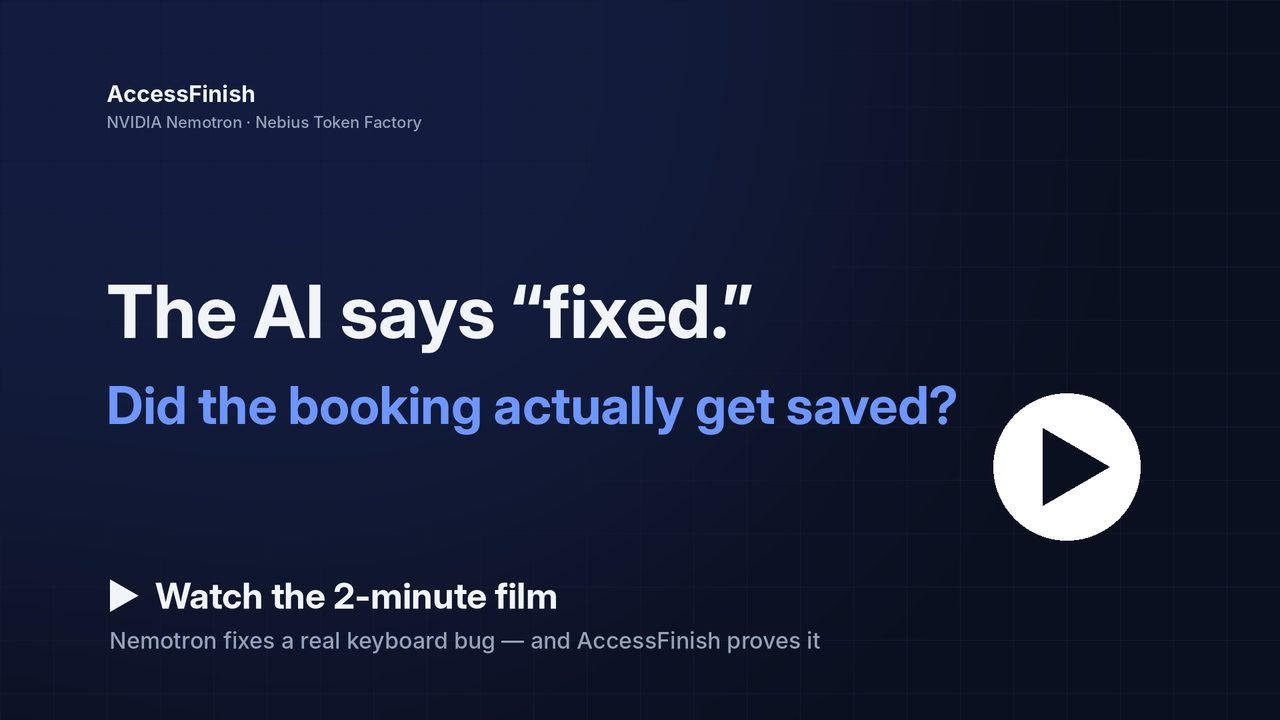
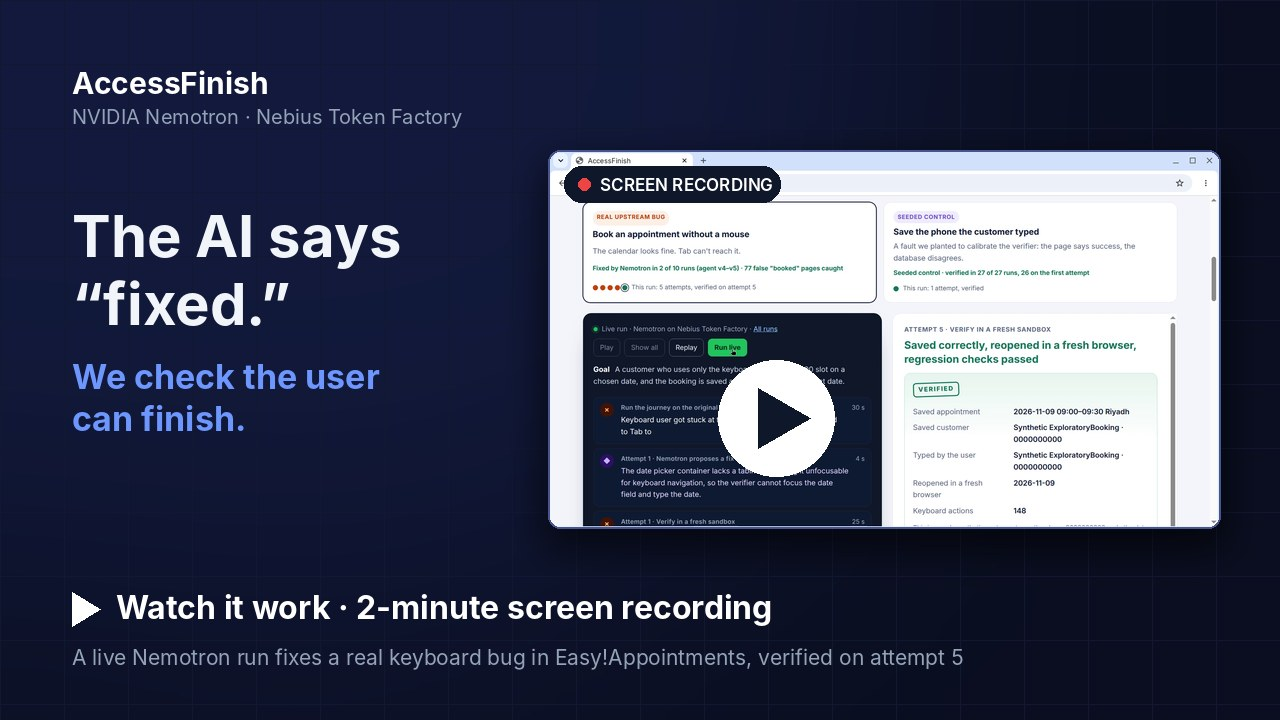
Point every film link at the screen recording (youtu.be/XztxzjYYlO0)
README, the page, the evidence page (web/ and docs/) and the Devpost story
link to the screen-recorded film. The poster now shows a real frame of the
live run, and the README describes how both films were made.

Changed region(s): [[0.0625, 0.1833, 0.9688, 0.7639], [0.0312, 0.7944, 0.75, 0.9472], [0.0625, 0.0917, 0.375, 0.1833]]

diff --git a/docs/index.html b/docs/index.html
@@ -9,7 +9,7 @@
 <a class="skip" href="#agent">Skip to the agent</a>
 <header class="top">
   <a class="brand" href="./"><span class="mark" aria-hidden="true">af</span>AccessFinish</a>
-  <nav aria-label="Main"><a class="nav-film" href="https://youtu.be/frrtIo-7kB8"><span aria-hidden="true">▶ </span>Film</a><a href="#how">How it works</a><a href="evidence.html">Evidence</a><a href="https://github.com/SultanAlfaifi/accessfinish">GitHub</a></nav>
+  <nav aria-label="Main"><a class="nav-film" href="https://youtu.be/XztxzjYYlO0"><span aria-hidden="true">▶ </span>Film</a><a href="#how">How it works</a><a href="evidence.html">Evidence</a><a href="https://github.com/SultanAlfaifi/accessfinish">GitHub</a></nav>
 </header>
 <main>
   <section class="hero with-film">
@@ -17,11 +17,11 @@
     <p class="eyebrow">NVIDIA Nemotron · Nebius Token Factory</p>
     <h1>The AI says “fixed.”<br><span>We check the user can finish.</span></h1>
     <p class="lede">AccessFinish is a repair agent that doesn't trust a green page. It drives the real journey with a keyboard, reads what was actually saved, reopens it in a fresh browser, and keeps fixing until the outcome is right.</p>
-    <p class="actions"><a class="cta" href="#agent">Replay the agent's runs</a><a class="cta secondary" href="https://youtu.be/frrtIo-7kB8"><span aria-hidden="true">▶ </span>Watch the 2-minute film</a></p>
+    <p class="actions"><a class="cta" href="#agent">Replay the agent's runs</a><a class="cta secondary" href="https://youtu.be/XztxzjYYlO0"><span aria-hidden="true">▶ </span>Watch the 2-minute film</a></p>
     </div>
-    <a class="film" href="https://youtu.be/frrtIo-7kB8">
+    <a class="film" href="https://youtu.be/XztxzjYYlO0">
       <img src="media/film-poster.jpg" width="1280" height="720" alt="">
-      <span class="film-label"><b>Film · 2 minutes</b><span>On YouTube · narrated, with captions · Nemotron fixes a real keyboard bug and AccessFinish proves it</span></span>
+      <span class="film-label"><b>Screen recording · 2 minutes</b><span>On YouTube · narrated, with captions · a live Nemotron run fixes a real keyboard bug, and AccessFinish proves it</span></span>
     </a>
   </section>
 

diff --git a/web/index.html b/web/index.html
@@ -9,7 +9,7 @@
 <a class="skip" href="#agent">Skip to the agent</a>
 <header class="top">
   <a class="brand" href="./"><span class="mark" aria-hidden="true">af</span>AccessFinish</a>
-  <nav aria-label="Main"><a class="nav-film" href="https://youtu.be/frrtIo-7kB8"><span aria-hidden="true">▶ </span>Film</a><a href="#how">How it works</a><a href="evidence.html">Evidence</a><a href="https://github.com/SultanAlfaifi/accessfinish">GitHub</a></nav>
+  <nav aria-label="Main"><a class="nav-film" href="https://youtu.be/XztxzjYYlO0"><span aria-hidden="true">▶ </span>Film</a><a href="#how">How it works</a><a href="evidence.html">Evidence</a><a href="https://github.com/SultanAlfaifi/accessfinish">GitHub</a></nav>
 </header>
 <main>
   <section class="hero with-film">
@@ -17,11 +17,11 @@
     <p class="eyebrow">NVIDIA Nemotron · Nebius Token Factory</p>
     <h1>The AI says “fixed.”<br><span>We check the user can finish.</span></h1>
     <p class="lede">AccessFinish is a repair agent that doesn't trust a green page. It drives the real journey with a keyboard, reads what was actually saved, reopens it in a fresh browser, and keeps fixing until the outcome is right.</p>
-    <p class="actions"><a class="cta" href="#agent">Replay the agent's runs</a><a class="cta secondary" href="https://youtu.be/frrtIo-7kB8"><span aria-hidden="true">▶ </span>Watch the 2-minute film</a></p>
+    <p class="actions"><a class="cta" href="#agent">Replay the agent's runs</a><a class="cta secondary" href="https://youtu.be/XztxzjYYlO0"><span aria-hidden="true">▶ </span>Watch the 2-minute film</a></p>
     </div>
-    <a class="film" href="https://youtu.be/frrtIo-7kB8">
+    <a class="film" href="https://youtu.be/XztxzjYYlO0">
       <img src="media/film-poster.jpg" width="1280" height="720" alt="">
-      <span class="film-label"><b>Film · 2 minutes</b><span>On YouTube · narrated, with captions · Nemotron fixes a real keyboard bug and AccessFinish proves it</span></span>
+      <span class="film-label"><b>Screen recording · 2 minutes</b><span>On YouTube · narrated, with captions · a live Nemotron run fixes a real keyboard bug, and AccessFinish proves it</span></span>
     </a>
   </section>
 

diff --git a/docs/evidence.html b/docs/evidence.html
@@ -9,7 +9,7 @@
 <a class="skip" href="#runs-heading">Skip to the runs</a>
 <header class="top">
   <a class="brand" href="./"><span class="mark" aria-hidden="true">af</span>AccessFinish</a>
-  <nav aria-label="Main"><a class="nav-film" href="https://youtu.be/frrtIo-7kB8"><span aria-hidden="true">▶ </span>Film</a><a href="./#how">How it works</a><a href="evidence.html" aria-current="page">Evidence</a><a href="https://github.com/SultanAlfaifi/accessfinish">GitHub</a></nav>
+  <nav aria-label="Main"><a class="nav-film" href="https://youtu.be/XztxzjYYlO0"><span aria-hidden="true">▶ </span>Film</a><a href="./#how">How it works</a><a href="evidence.html" aria-current="page">Evidence</a><a href="https://github.com/SultanAlfaifi/accessfinish">GitHub</a></nav>
 </header>
 <main>
   <section class="hero compact">

diff --git a/web/evidence.html b/web/evidence.html
@@ -9,7 +9,7 @@
 <a class="skip" href="#runs-heading">Skip to the runs</a>
 <header class="top">
   <a class="brand" href="./"><span class="mark" aria-hidden="true">af</span>AccessFinish</a>
-  <nav aria-label="Main"><a class="nav-film" href="https://youtu.be/frrtIo-7kB8"><span aria-hidden="true">▶ </span>Film</a><a href="./#how">How it works</a><a href="evidence.html" aria-current="page">Evidence</a><a href="https://github.com/SultanAlfaifi/accessfinish">GitHub</a></nav>
+  <nav aria-label="Main"><a class="nav-film" href="https://youtu.be/XztxzjYYlO0"><span aria-hidden="true">▶ </span>Film</a><a href="./#how">How it works</a><a href="evidence.html" aria-current="page">Evidence</a><a href="https://github.com/SultanAlfaifi/accessfinish">GitHub</a></nav>
 </header>
 <main>
   <section class="hero compact">

diff --git a/README.md b/README.md
@@ -6,7 +6,7 @@
 
 A repair agent on **NVIDIA Nemotron 3 Super** (served by **Nebius Token Factory**) that accepts a fix only when a keyboard-only browser session (real keystrokes in a real browser) can finish the task, the database holds what was typed, and a fresh browser shows it back.
 
-[![Watch the film](https://img.shields.io/badge/%E2%96%B6%20Watch-the%202--minute%20film-ff0000?style=for-the-badge)](https://youtu.be/frrtIo-7kB8)
+[![Watch the film](https://img.shields.io/badge/%E2%96%B6%20Watch-the%202--minute%20film-ff0000?style=for-the-badge)](https://youtu.be/XztxzjYYlO0)
 [![Live demo](https://img.shields.io/badge/Live-replay%20page-2f5bea?style=for-the-badge)](https://sultalfaifi.com/accessfinish/)
 [![Evidence](https://img.shields.io/badge/All%2054%20runs-raw%20evidence-13795b?style=for-the-badge)](https://sultalfaifi.com/accessfinish/evidence.html)
 
@@ -15,8 +15,8 @@ A repair agent on **NVIDIA Nemotron 3 Super** (served by **Nebius Token Factory*
 ![Track](https://img.shields.io/badge/track-Coding%20%26%20Agentic%20Engineering-141d3b)
 [![License: MIT](https://img.shields.io/badge/license-MIT-blue)](LICENSE)
 
-<a href="https://youtu.be/frrtIo-7kB8"><img src="web/media/film-poster.jpg" width="820" alt="Watch the 2-minute film on YouTube"></a>
-<br><sub>No YouTube? <a href="media/accessfinish-agent-demo.mp4">Watch the MP4 in the repository (20 MB)</a></sub>
+<a href="https://youtu.be/XztxzjYYlO0"><img src="web/media/film-poster.jpg" width="820" alt="Watch the 2-minute screen recording on YouTube"></a>
+<br><sub>A screen recording of the project working: a live Nemotron run, verified, then the patched app booked with the keyboard. No YouTube? <a href="media/accessfinish-live-demo.mp4">Watch the MP4 in the repository (9 MB)</a></sub>
 
 | **0 / 77** | **2 / 10** | **27 / 27** | **$6.38** |
 | :---: | :---: | :---: | :---: |
@@ -276,15 +276,15 @@ lib/fixture.cjs            the verifier: isolated containers, keyboard booking, 
 lib/                       cases, edit validation, model client, Docker helpers, run records
 integration/portable/      sandbox images, browser workers, outcome evaluator, pinned Easy!Appointments (GPL-3.0)
 scripts/agent.cjs          run the agent from the command line (--case, --publish, --recorded-model)
-scripts/                   evidence index and checks, CI replays, the film pipeline (narrate, render, transcribe)
+scripts/                   evidence index and checks, CI replays, the film pipelines (scripts/film/ records the screen)
 web/                       the replay page and the evidence page (docs/ is the GitHub Pages copy)
 evidence/                  every live run and earlier trial, raw; start at evidence/README.md
-media/                     the demo film, its narration and shots, README images
+media/                     the demo films (screen recording and generated), their narration, takes and shots, README images
 examples/                  the PR comment AccessFinish would post as a merge gate (rendered from a recorded run)
 submission/                Devpost story, judge guide, testing instructions, feedback on Nemotron and Token Factory
 test/                      60 tests
 server.cjs                 the local page with Run live (npm start)
-.github/workflows/         clean-execution (CI replay), agent-run (live Nemotron runs), narration (film voice)
+.github/workflows/         clean-execution (CI replay), agent-run (live Nemotron runs), film (screen recording), narration (film voice)
 third_party/               the Easy!Appointments GPL-3.0 licence
 ```
 
@@ -296,7 +296,7 @@ third_party/               the Easy!Appointments GPL-3.0 licence
 - **Edits:** each edit's `old` text must match the file exactly once. Since v3, an anchor that matches exactly once when whitespace is ignored is re-indented and applied, like `git apply --ignore-whitespace`. Ambiguous anchors are never guessed, and every adjustment is recorded next to the model's own text.
 - **Comparable runs:** every trace since v2 (40 of 54) records the agent version, commit, fixture fingerprint, temperature and booking date. One booking date (a Monday in a later month, so the date picker must change month) is pinned per CI job.
 - **Sandbox:** separate containers for the app, database, compiler, browser and verifier. No network, no model key, read-only roots, all capabilities dropped, CPU/memory/PID limits. Model output never becomes a shell command.
-- **The film** is generated, not screen-recorded: real page close-ups ([`capture-film-assets.cjs`](scripts/capture-film-assets.cjs)), a Qwen3-TTS narration checked by Whisper ([`narrate.py`](scripts/narrate.py), [`transcribe-narration.py`](scripts/transcribe-narration.py)) and [`render-agent-film.py`](scripts/render-agent-film.py).
+- **The films:** the [screen recording](media/live-film/README.md) is a visible Chromium on a GitHub Actions runner's desktop, captured with ffmpeg by [`shoot.cjs`](scripts/film/shoot.cjs) while a live run ran, and cut to a Qwen3-TTS narration by [`render-live-film.py`](scripts/film/render-live-film.py); speed-ups are labelled. The earlier film is generated from real page close-ups ([`capture-film-assets.cjs`](scripts/capture-film-assets.cjs)), a Qwen3-TTS narration checked by Whisper ([`narrate.py`](scripts/narrate.py), [`transcribe-narration.py`](scripts/transcribe-narration.py)) and [`render-agent-film.py`](scripts/render-agent-film.py).
 </details>
 
 ## Limits

diff --git a/submission/video-script.md b/submission/video-script.md
@@ -2,7 +2,7 @@
 
 ## Screen recording (2 min 9 s)
 
-`media/accessfinish-live-demo.mp4` (1920×1080, narrated, captions burned in) shows the project working on the machine it was built for: a Linux desktop with Docker, recorded on a GitHub Actions runner. One scenario from start to end:
+[On YouTube](https://youtu.be/XztxzjYYlO0) · `media/accessfinish-live-demo.mp4` (1920×1080, narrated, captions burned in) shows the project working on the machine it was built for: a Linux desktop with Docker, recorded on a GitHub Actions runner. One scenario from start to end:
 
 1. A keyboard-only customer tries to book in the original Easy!Appointments: Tab never reaches the calendar.
 2. `npm start`, then **Run live** on the page: Nemotron 3 Super on Nebius Token Factory, verified in the sandbox (`docker ps` shows its offline containers). Attempt 2 reaches a "booked" page that saved 1 Nov instead of 9 Nov, and is rejected. Attempt 4 saves the right date, but the reopened booking shows today, so it is rejected too. Attempt 5 is verified, 6 min 8 s after Run live, at about $0.09.

diff --git a/submission/project-description.md b/submission/project-description.md
@@ -6,7 +6,7 @@ The text submitted to Devpost (Nebius × NVIDIA Global AI Hackathon, track: Codi
 
 *Access:* can a keyboard user get through? *Finish:* is what they typed actually saved?
 
-▶ [Watch the 2-minute film](https://youtu.be/frrtIo-7kB8) · [Replay the agent's runs](https://sultalfaifi.com/accessfinish/) · [Every run with its raw evidence](https://sultalfaifi.com/accessfinish/evidence.html) · [Source on GitHub](https://github.com/SultanAlfaifi/accessfinish)
+▶ [Watch the 2-minute film](https://youtu.be/XztxzjYYlO0) · [Replay the agent's runs](https://sultalfaifi.com/accessfinish/) · [Every run with its raw evidence](https://sultalfaifi.com/accessfinish/evidence.html) · [Source on GitHub](https://github.com/SultanAlfaifi/accessfinish)
 
 ## Inspiration
 

diff --git a/media/live-film/README.md b/media/live-film/README.md
@@ -1,6 +1,6 @@
 # The screen-recorded film
 
-`media/accessfinish-live-demo.mp4` is a screen recording of AccessFinish working, edited to under three minutes. Nothing in it is staged or redrawn: a visible Chromium on a 1920×1080 desktop (Xvfb, openbox) on a GitHub Actions runner, captured with ffmpeg while it ran.
+[On YouTube](https://youtu.be/XztxzjYYlO0) · `media/accessfinish-live-demo.mp4` is a screen recording of AccessFinish working, edited to under three minutes. Nothing in it is staged or redrawn: a visible Chromium on a 1920×1080 desktop (Xvfb, openbox) on a GitHub Actions runner, captured with ffmpeg while it ran.
 
 | Scene | What is on screen | Recorded by |
 | --- | --- | --- |
